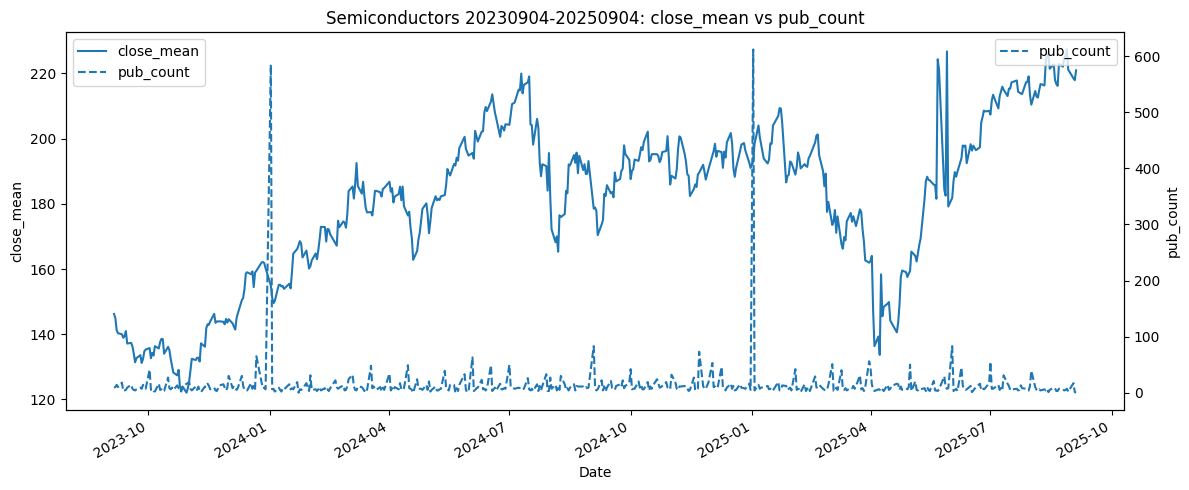
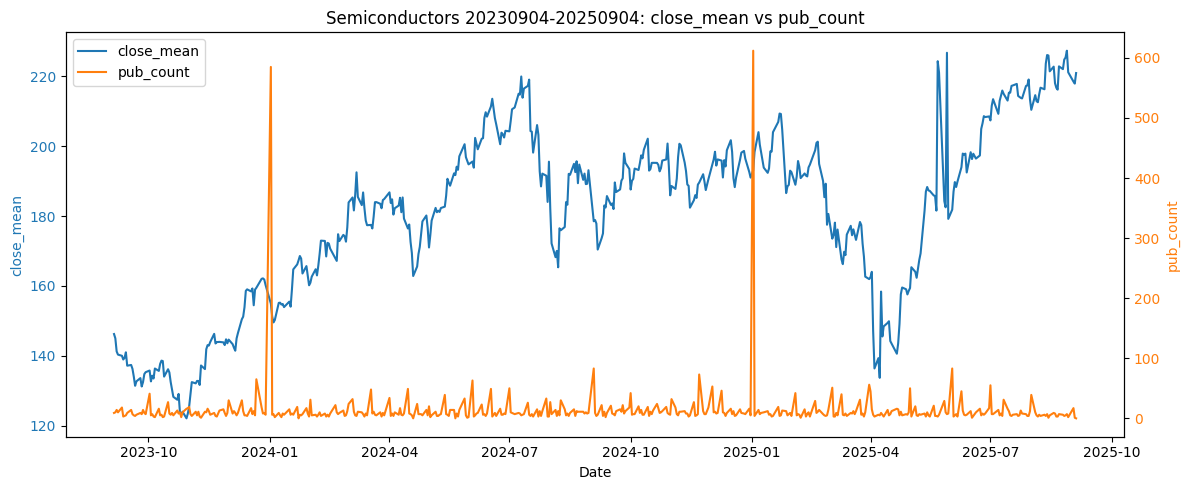
Update plots

diff --git a/app.py b/app.py
@@ -284,6 +284,37 @@ with tab_features:
         )
         st.dataframe(df[show_cols].head(200), use_container_width=True)
         st.caption("Note: for speed, only the **first 200 rows** (head) are shown here.")
+        # --- Feature explanations (only for columns shown) ---
+        expl = {
+            # numeric
+            "close_mean": "Equal-weighted average closing price across sector tickers.",
+            "ret_1d": "1-day return of the sector average price (close_mean).",
+            "vol_4w": "Rolling 20-trading-day (~4 weeks) sum of total traded volume.",
+            "vol_growth": "Day-over-day percent change in total traded volume.",
+            "pub_4w": "Rolling 20-trading-day sum of mapped publication counts.",
+            "pub_growth": "Day-over-day percent change in mapped publication counts.",
+            # categorical (topic names)
+            "top1": "Most frequent topic name on that day.",
+            "top2": "2nd most frequent topic name.",
+            "top3": "3rd most frequent topic name.",
+            "top4": "4th most frequent topic name.",
+            "top5": "5th most frequent topic name.",
+        }
+
+        # Only describe columns actually displayed in the table
+        described_cols = [c for c in show_cols if c in expl]
+        nums = [c for c in described_cols if c in {"ret_1d","close_mean","vol_4w","vol_growth","pub_4w","pub_growth"}]
+        cats = [c for c in described_cols if c in {"top1","top2","top3","top4","top5"}]
+
+        with st.expander("What do these features mean?"):
+            if nums:
+                st.markdown("**Numeric features**")
+                for c in nums:
+                    st.markdown(f"- **{c}** — {expl[c]}")
+            if cats:
+                st.markdown("**Categorical features (topics)**")
+                for c in cats:
+                    st.markdown(f"- **{c}** — {expl[c]}")
     else:
         st.info("Features not found yet. Run **Build / Update Data** in the Build & Run tab.")
 
@@ -292,27 +323,30 @@ with tab_plots:
     st.subheader("Visualization Outputs")
     tag = date_tag(start_date, end_date)
 
-    # Show ONLY these plots, in this order (2 per row)
+    # Base plots in the exact order (2 per row)
     ordered_plots = [
-        PLOTS_DIR / f"{sector}_{tag}_price.png",
+        PLOTS_DIR / f"{sector}_{tag}_price.png",                    # 1st (left)
+        PLOTS_DIR / f"{sector}_{tag}_levels_price_vs_pubs.png",     # 2nd (right)
         PLOTS_DIR / f"{sector}_{tag}_volume_feats.png",
         PLOTS_DIR / f"{sector}_{tag}_pub_feats.png",
-        PLOTS_DIR / f"{sector}_{tag}_levels_price_vs_pubs.png",
         PLOTS_DIR / f"{sector}_{tag}_corr_all.png",
         PLOTS_DIR / f"{sector}_{tag}_corr_core.png",
-        PLOTS_DIR / f"{sector}_{tag}_cat_assoc_top_topics.png",
     ]
+
+    # Only show Cramér's V heatmap if categorical features are selected
+    if st.session_state.with_categories:
+        ordered_plots.append(PLOTS_DIR / f"{sector}_{tag}_cat_assoc_top_topics.png")
 
     existing = [p for p in ordered_plots if p.exists()]
     missing  = [p for p in ordered_plots if not p.exists()]
 
     if not existing:
-        st.info("No plots for this date range. Run **Generate Plots** in the Build & Run tab.")
+        st.info("No plots for this date range. Use **Generate Plots (04)**.")
     else:
         cols = st.columns(2)
         for i, p in enumerate(existing):
             with cols[i % 2]:
-                st.image(str(p), caption=p.name, use_container_width=True)
+                st.image(str(p), use_container_width=True)  # no caption
 
     if missing:
         with st.expander("Missing expected plots"):

diff --git a/app/scripts/04_visualize.py b/app/scripts/04_visualize.py
@@ -121,19 +121,29 @@ def main():
     else:
         print("[WARN] Missing pub_4w/pub_growth for publication features plot")
 
-    # 4) close_mean & pub_count (NO z-scores; twin y-axes for readability)
+     # 4) close_mean & pub_count (NO z-scores) — colored lines
     if {"close_mean","pub_count"}.issubset(df.columns):
         fig, ax1 = plt.subplots(figsize=(12,5))
-        df.plot(x="date", y="close_mean", ax=ax1, label="close_mean")
-        ax1.set_ylabel("close_mean"); ax1.set_xlabel("Date")
 
+        # left axis: close_mean (blue)
+        ax1.plot(df["date"], df["close_mean"], label="close_mean", color="tab:blue")
+        ax1.set_ylabel("close_mean", color="tab:blue")
+        ax1.tick_params(axis="y", labelcolor="tab:blue")
+        ax1.set_xlabel("Date")
+
+        # right axis: pub_count (orange)
         ax2 = ax1.twinx()
-        df.plot(x="date", y="pub_count", ax=ax2, label="pub_count", linestyle="--")
-        ax2.set_ylabel("pub_count")
+        ax2.plot(df["date"], df["pub_count"], label="pub_count", color="tab:orange")
+        ax2.set_ylabel("pub_count", color="tab:orange")
+        ax2.tick_params(axis="y", labelcolor="tab:orange")
 
         ax1.set_title(f"{args.sector} {tag}: close_mean vs pub_count")
-        h1,l1 = ax1.get_legend_handles_labels(); h2,l2 = ax2.get_legend_handles_labels()
-        ax1.legend(h1+h2, l1+l2, loc="upper left")
+
+        # unified legend
+        h1, l1 = ax1.get_legend_handles_labels()
+        h2, l2 = ax2.get_legend_handles_labels()
+        ax1.legend(h1 + h2, l1 + l2, loc="upper left")
+
         fig.tight_layout()
         fig.savefig(PLOTS_DIR / f"{args.sector}_{tag}_levels_price_vs_pubs.png", bbox_inches="tight")
         plt.close(fig)
